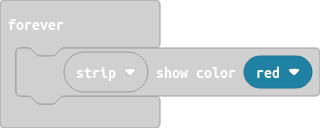
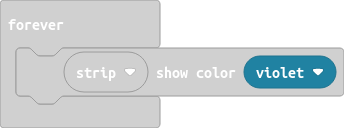
change color to violet

diff --git a/main.ts b/main.ts
@@ -1,4 +1,4 @@
 let strip = neopixel.create(DigitalPin.P2, 60, NeoPixelMode.RGB)
 basic.forever(function () {
-    strip.showColor(neopixel.colors(NeoPixelColors.Red))
+    strip.showColor(neopixel.colors(NeoPixelColors.Violet))
 })
